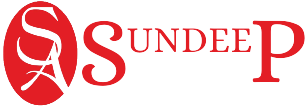
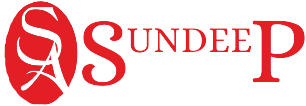
Change

diff --git a/index.html b/index.html
@@ -23,6 +23,8 @@
 <link rel="preconnect" href="https://fonts.gstatic.com" crossorigin>
 <link href="https://fonts.googleapis.com/css2?family=Crimson+Pro:wght@500&display=swap" rel="stylesheet">
 
+<link href="https://fonts.googleapis.com/css2?family=Roboto+Condensed:wght@300&display=swap" rel="stylesheet">
+
 <link href="https://fonts.googleapis.com/css2?family=Italianno&display=swap" rel="stylesheet">
 
 <link href="https://fonts.googleapis.com/css2?family=Prompt&display=swap" rel="stylesheet">
@@ -35,7 +37,7 @@
     }
 
     body {
-      background-color:lightyellow;
+      background-color:white;
     }
 
     /* Navigation Bar */
@@ -43,12 +45,12 @@
     .logo_home {
       margin: 0;
       padding: 0;
-      width: 70%;
-      height: 70%;
+      width: 13rem;
+      height: 5rem;
     }
 
     .navbar {
-      background: #019599 !important;
+      background: #e31e25 !important;
       height: 7rem;
       font-family: 'Crimson Pro', serif;
       font-size: 1.1rem;
@@ -60,7 +62,7 @@
     }
 
     .nav-link:hover {
-      color: #fdfd96 !important;
+      color: darkgrey !important;
     }
 
     .active {
@@ -98,7 +100,7 @@
 
     .category-menu {
       text-align: center;
-      background-color: #ffa62b;
+      background-color: whitesmoke;
       padding:1.5rem;
     }
 
@@ -107,13 +109,13 @@
       display: inline;
       padding: 1.5rem;
       font-size: 1.1rem;
-      color:maroon;
+      color:#BD1616;
       font-family: 'Crimson Pro', serif;
     }
 
     #menu li:hover {
       cursor:pointer;
-      color:#fdfd96;
+      color:darkgrey;
     }
 
     #menu a{
@@ -126,18 +128,17 @@
       text-align: center;
     }
 
-    .intro-text h1, h3{
-      color:#8b0000;
-    }
 
     .intro-text h1{
       font-family: 'Italianno', cursive;
       font-size: 5.5rem;
+      color:#950101;
     }
 
     .intro-text h3{
-      font-family: 'Prompt', sans-serif;
+      font-family: 'Crimson Pro', serif;
       font-size: 1.5rem;
+      color:#BD1616;
     }
 
     .items-grid {
@@ -162,7 +163,7 @@
 
     .item {
       display: inline-block;
-     background:#997a8d;
+     background:white;
       padding: 1rem;
       margin: 0 0 2rem;
       width: 100%;
@@ -177,6 +178,7 @@
     .item img {
       width: 80%;
       margin-top: 2rem;
+      box-shadow: 0.5rem 0.6rem 0.5rem 0.5rem gainsboro;
     }
 
     .item img:hover{
@@ -188,14 +190,14 @@
       cursor: pointer;
       -ms-transform: scale(1.2,1.2); /* IE 9 */
   transform: scale(1.2,1.2); /* Standard syntax */
-   background:#c4aead;
+   background:#f2f3f4;
    padding:2rem;
     }
 
     .category {
       font-size: 1.4rem;
-      padding:1rem;
-      color:cornsilk;
+      padding:2rem;
+      color:#BD1616;
     }
 
 
@@ -225,16 +227,12 @@
 
 
 
-
-
-
-
     #footer {
-      padding: 1%;
-    background: #019599 !important;
+    background: #e31e25 !important;
       display: grid;
       place-items: center;
-      color: maroon;
+      color: white;
+      padding:2rem;
     }
 
     .product-img {
@@ -253,7 +251,7 @@
   <!-- Navigation Bar -->
 
   <nav class="navbar navbar-expand-lg navbar-light bg-light">
-    <a class="navbar-brand" href="index.html"><img class="logo_home" src="Paint3.png" alt=""></a>
+    <a class="navbar-brand" href="index.html"><img class="logo_home" src="Logo2.png" alt=""></a>
     <button class="navbar-toggler" type="button" data-toggle="collapse" data-target="#navbarTogglerDemo02" aria-controls="navbarTogglerDemo02" aria-expanded="false" aria-label="Toggle navigation">
       <span class="navbar-toggler-icon"></span>
     </button>
@@ -362,6 +360,14 @@
     </div>
 
   </div>
+
+  <section id="footer">
+
+    <div class="footer-text">
+      Copyright &copy 2021 IITB Research Park Foundation | All rights reserved
+
+    </div>
+  </section>
 
 
 

diff --git a/apparel.html b/apparel.html
@@ -194,8 +194,8 @@ font-style: italic;
     }
 
     .product-img{
-      width:80%;
-      height:18rem;
+      width:auto;
+      height:11rem;
       background-color: transparent;
     }
 
